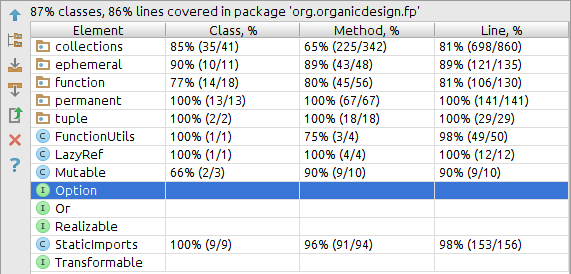
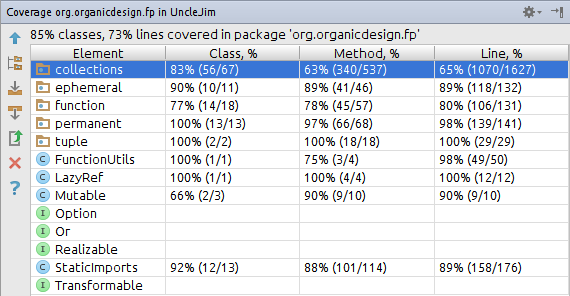
Added more tests.  Back to 73% coverage by line over-all

diff --git a/src/test/java/org/organicdesign/fp/collections/PersistentHashSetTest.java b/src/test/java/org/organicdesign/fp/collections/PersistentHashSetTest.java
@@ -1,7 +1,10 @@
 package org.organicdesign.fp.collections;
 
 import org.junit.Test;
+import org.organicdesign.fp.Option;
+import org.organicdesign.fp.permanent.Sequence;
 
+import java.util.Arrays;
 import java.util.HashSet;
 import java.util.Set;
 
@@ -114,39 +117,10 @@ public class PersistentHashSetTest {
         for (String s : new String[] { "one", "two", "three", "four", "five" }) {
             // System.out.println("item.get(): " + s);
             u = u.put(s);
+            assertTrue(u.contains(s));
             // System.out.println("u: " + u.toString());
         }
         // System.out.println("Final u: " + u);
-
-
-//        PersistentHashSet<String> u = PersistentHashSet.empty();
-//        System.out.println("Initial u: " + u);
-//        for (String s : new String[] { "one", "two", "three", "four", "five" }) {
-//            System.out.println("item.get(): " + s);
-//            u = u.put(s);
-//            System.out.println("u: " + u);
-//        }
-//        System.out.println("Final u: " + u);
-
-
-//        Sequence<String> seq = Sequence.of("one", "two", "three", "four", "five");
-//        PersistentHashSet<String> u = PersistentHashSet.empty();
-//        System.out.println("Initial u: " + u);
-//        Function2<PersistentHashSet<String>,? super String,PersistentHashSet<String>> fun = (accum, t) -> accum.put(t);
-//        // System.out.println("seq: " + seq);
-//        // System.out.println("===>item: " + item);
-//        Option<String> item = seq.head();
-//        while (item.isSome()) {
-//            System.out.println("item.get(): " + item.get());
-//            // u = fun.apply(u, item.get());
-//            u = u.put(item.get());
-//            System.out.println("u: " + u);
-//            // repeat with next element
-//            seq = seq.tail();
-//            item = seq.head();
-//        }
-//        System.out.println("Final u: " + u);
-
     }
 
     @Test public void disjoin() {
@@ -168,6 +142,96 @@ public class PersistentHashSetTest {
         assertEquals(s2.hashCode(), s4.hashCode());
         assertTrue(s2.equals(s4));
         assertTrue(s4.equals(s2));
+    }
+
+    @Test public void seq3() {
+        PersistentHashSet<String> m1 = PersistentHashSet.of("c");
+        assertEquals(Option.of("c"),
+                     m1.seq().head());
+
+        PersistentHashSet<String> m2 = PersistentHashSet.of("c", "b", "a");
+
+        Set<Option<String>> s = new HashSet<>(Arrays.asList(Option.of("c"),
+                                                            Option.of("b"),
+                                                            Option.of("a")));
+
+        Sequence<String> seq = m2.seq();
+        Option o = seq.head();
+        assertTrue(s.contains(o));
+        s.remove(o);
+
+        seq = seq.tail();
+        o = seq.head();
+        assertTrue(s.contains(o));
+        s.remove(o);
+
+        seq = seq.tail();
+        o = seq.head();
+        assertTrue(s.contains(o));
+        s.remove(o);
+
+        seq = seq.tail();
+        o = seq.head();
+        assertEquals(Option.none(), o);
+    }
+
+    @Test public void seqMore() {
+        PersistentHashSet<String> m1 = PersistentHashSet.of("g", "f", "e", "d", "c", "b", "a");
+        // System.out.println("m1.toString(): " + m1.toString());
+
+        Set<String> s1 = new HashSet<>(Arrays.asList("a", "b", "c", "d", "e", "f", "g"));
+
+        // System.out.println("s1: " + s1);
+
+        Sequence<String> seq1 = m1.seq();
+        Option<String> o1 = seq1.head();
+        while (o1.isSome()) {
+            String entry = o1.get();
+            // System.out.println("entry: " + entry);
+            assertTrue(s1.contains(entry));
+            s1.remove(entry);
+            seq1 = seq1.tail();
+            o1 = seq1.head();
+        }
+        assertEquals(0, s1.size());
+        assertTrue(s1.isEmpty());
+    }
+
+    @Test public void longerSeq() {
+        // This is an assumed to work mutable set - the "control" for this test.
+        Set<Integer> set = new HashSet<>();
+        // This is the map being tested.
+        ImSet<Integer> accum = PersistentHashSet.empty();
+
+        int MAX = 1000;
+
+        for (int i = 0; i < MAX; i++) {
+            set.add(i);
+            accum = accum.put(i);
+
+            Option<Integer> o = accum.seq().head();
+            assertTrue(o.isSome());
+            //noinspection ConstantConditions
+            assertTrue(o.get() instanceof Integer);
+        }
+        for (int i = 0; i < MAX; i++) {
+            assertTrue(accum.contains(i));
+        }
+
+        Sequence<Integer> seq = accum.seq();
+        for (int i = 0; i < MAX; i++) {
+            Option<Integer> o = seq.head();
+
+            assertTrue(set.contains(o.get()));
+            set.remove(o.get());
+
+            seq = seq.tail();
+        }
+//        System.out.println("seq: " + seq);
+        assertFalse(seq.head().isSome());
+        assertTrue(set.isEmpty());
+
+//        println("accum: " + accum);
     }
 
 //    @Test public void ordering() {
@@ -251,55 +315,6 @@ public class PersistentHashSetTest {
         ss1.add("hello");
         equalsDistinctHashCode(s1, ss1, un(ss1),
                                PersistentHashSet.of("hello", "an", "work", "the"));
-
-//        // Really, you need to read the JavaDoc for PersistentHashSet.equals() to understand the bizarre notion of
-//        // equality being checked here.
-//        equalsDistinctHashCode(s1, ss1, un(ss1),
-//                               PersistentHashSet.ofComp(STR_LEN_COMP,
-//                                                        "helloz", "an", "work", "b", "the"));
-//
-//        PersistentHashSet<String> s2 = PersistentHashSet.ofComp(STR_LEN_COMP,
-//                                                                "hello", "an", "work", "b", "the");
-//
-//        // This illustrates the bug in java
-//        Set<String> ss = new HashSet<>();
-//        ss.add("the");
-//        ss.add("b");
-//        ss.add("work");
-//        ss.add("an");
-//        ss.add("hello");
-//
-//        Set<String> ss2 = new HashSet<>();
-//        ss2.add("the");
-//        ss2.add("b");
-//        ss2.add("work");
-//        ss2.add("an");
-//        ss2.add("Hello");
-//
-//        // Yeah, totally bizarre.  Doesn't care that the order is different.
-//        assertEquals(ss, ss2);
-//        assertEquals(ss2, ss);
-//
-//
-//        equalsDistinctHashCode(s2, ss, un(ss),
-//                               PersistentHashSet.ofComp(STR_LEN_COMP, "helloz", "an", "work", "the"));
-//
-////        assertEquals(s2, yadda);
-////        assertEquals(ss, yadda);
-////        assertEquals(un(ss), yadda);
-////
-////        assertNotEquals(yadda, s2);
-////        assertNotEquals(yadda, ss);
-////        assertNotEquals(yadda, un(ss));
-//
-//        equalsDistinctHashCode(s2, ss, un(ss),
-//                               PersistentHashSet.of("an", "helloz", "work", "b", "the"));
-//
-//        equalsSameHashCode(s2,
-//                           PersistentHashSet.ofComp(STR_LEN_COMP, "an", "hello", "work", "the").put("b"),
-//                           PersistentHashSet.ofComp(STR_LEN_COMP, "an", "b", "work").put("hello").put("the"),
-//                           PersistentHashSet.of("an", "hello", "work", "b", "the"));
-
     }
 
 //    // TODO: Finish this!

diff --git a/src/test/java/org/organicdesign/fp/collections/PersistentHashMapTest.java b/src/test/java/org/organicdesign/fp/collections/PersistentHashMapTest.java
@@ -156,7 +156,7 @@ public class PersistentHashMapTest {
         assertTrue(s2.isEmpty());
     }
 
-    // TODO: This is the root cause of issues.
+    // This is the root cause of issues.
     @Test public void seqMore2() {
         PersistentHashMap<String,String> s1 = PersistentHashMap.empty();
         s1 = s1.assoc("one", "one");

diff --git a/README.md b/README.md
@@ -9,7 +9,7 @@ Its type system is not as advanced as Scala's.
 But it can still provide many of the best aspects of both these languages if used carefully.
 This project encourages that kind of use.
 
-Currently an *** Alpha Release ***.  The API is subject to minor changes, but test coverage was above 85% before adding PersistentHashMap and PersistentHashSet (currently 71%):
+Currently an *** Alpha Release ***.  The API is subject to minor changes, but test coverage was above 85% before adding PersistentHashMap and PersistentHashSet (currently 73%):
 
 ![Test Coverage](testCoverage.png)
 
